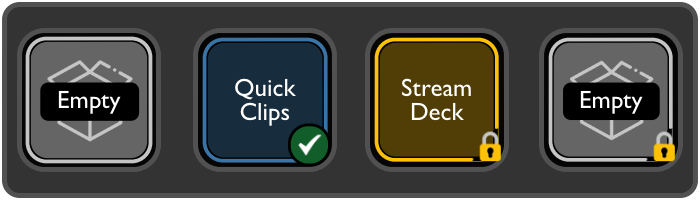
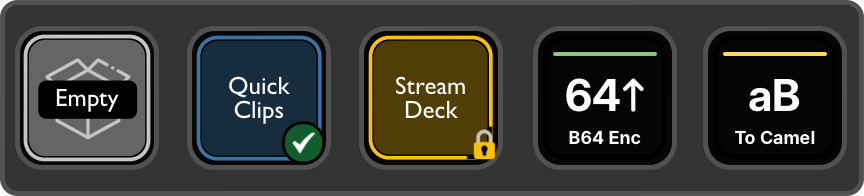
update webpage

diff --git a/index.html b/index.html
@@ -23,8 +23,6 @@
                     <h1>Quick Clips</h1>
                 </div>
                 <div class="header-links">
-                    <a href="https://github.com/glmorgan/quick-clips" class="btn btn-secondary" target="_blank"
-                        rel="noopener noreferrer"><i class="fab fa-github"></i> View on GitHub</a>
                     <a href="#installation" class="btn"><i class="fas fa-play"></i> Get Started</a>
                 </div>
             </div>
@@ -48,7 +46,7 @@
                 empty button to store it. Press the same button again to paste it into the active app. When you are
                 finished with that text, press and hold to clear the slot so it is ready for the next clip. There's no
                 need to open the Stream Deck UI during your workflow.</p>
-            <p>Especially useful for text that changes often — code snippets, API values, email addresses, URLs, or
+            <p>Especially useful for text that changes often: code snippets, API values, email addresses, URLs, or
                 anything you need to paste multiple times before moving on.</p>
 
             <h3>Button States</h3>
@@ -109,7 +107,7 @@
         <section id="quick-text-utils">
             <h2>Quick Text Utils</h2>
             <p>Transform clipboard text without breaking your workflow. Copy text, press a configured button, and the
-                transformed result is ready to paste — no apps to open, no menus to navigate.</p>
+                transformed result is ready to paste: no apps to open, no menus to navigate.</p>
             <p>Each button is dedicated to a single transform. Press and hold for one second to reconfigure the button
                 to a different transform at any time.</p>
 
@@ -197,47 +195,18 @@
                 </ol>
             </div>
 
-            <h3>From the Stream Deck Marketplace (Pending Publication)</h3>
+            <h3>Updating from a Previous Version</h3>
             <div class="install-steps">
                 <ol>
                     <li>Open the Stream Deck application</li>
-                    <li>Go to the Marketplace</li>
-                    <li>Search for "Quick Clips"</li>
-                    <li>Click Install</li>
+                    <li>Go to <strong>Preferences → Plugins</strong></li>
+                    <li>Find Quick Clips and click <strong>Uninstall</strong></li>
+                    <li>Download and double-click the new version to install</li>
                 </ol>
+                <p>Your existing buttons and stored clips will not be affected.</p>
             </div>
 
-            <h3>Development Installation</h3>
-            <div class="install-steps">
-                <ol>
-                    <li>Clone this repository:
-                        <div class="code-block">
-                            <button class="copy-btn" onclick="copyCode(this)"><i class="fas fa-copy"></i></button>
-                            <pre><code>git clone https://github.com/glmorgan/quick-clips.git && \
-cd quick-clips</code></pre>
-                        </div>
-                    </li>
-                    <li>Install dependencies and build:
-                        <div class="code-block">
-                            <button class="copy-btn" onclick="copyCode(this)"><i class="fas fa-copy"></i></button>
-                            <pre><code>npm install && npm run build</code></pre>
-                        </div>
-                    </li>
-                    <li>Link the plugin to Stream Deck:
-                        <div class="code-block">
-                            <button class="copy-btn" onclick="copyCode(this)"><i class="fas fa-copy"></i></button>
-                            <pre><code>ln -s "$(pwd)/com.quickclips.streamdeck.sdPlugin" \
-  "$HOME/Library/Application Support/com.elgato.StreamDeck/Plugins/"</code></pre>
-                        </div>
-                    </li>
-                    <li>Enable developer mode and restart:
-                        <div class="code-block">
-                            <button class="copy-btn" onclick="copyCode(this)"><i class="fas fa-copy"></i></button>
-                            <pre><code>npx streamdeck dev && npx streamdeck restart com.quickclips.streamdeck</code></pre>
-                        </div>
-                    </li>
-                </ol>
-            </div>
+            <p style="color: var(--text-light);">For development installation see the <a href="https://github.com/glmorgan/quick-clips">GitHub repository</a>.</p>
         </section>
 
         <section id="platform-support">
@@ -261,7 +230,7 @@ cd quick-clips</code></pre>
             <ul style="margin-left: 1.5rem; color: var(--text-light);">
                 <li>Built with TypeScript using the Elgato Stream Deck SDK v2.0</li>
                 <li>Uses native macOS clipboard tools (pbpaste and pbcopy)</li>
-                <li>Text output via simulated keystrokes — clipboard is not overwritten on paste</li>
+                <li>Text output via simulated keystrokes: clipboard is not overwritten on paste</li>
                 <li>Settings are stored persistently within Stream Deck profiles</li>
                 <li>No external services or network access required</li>
             </ul>